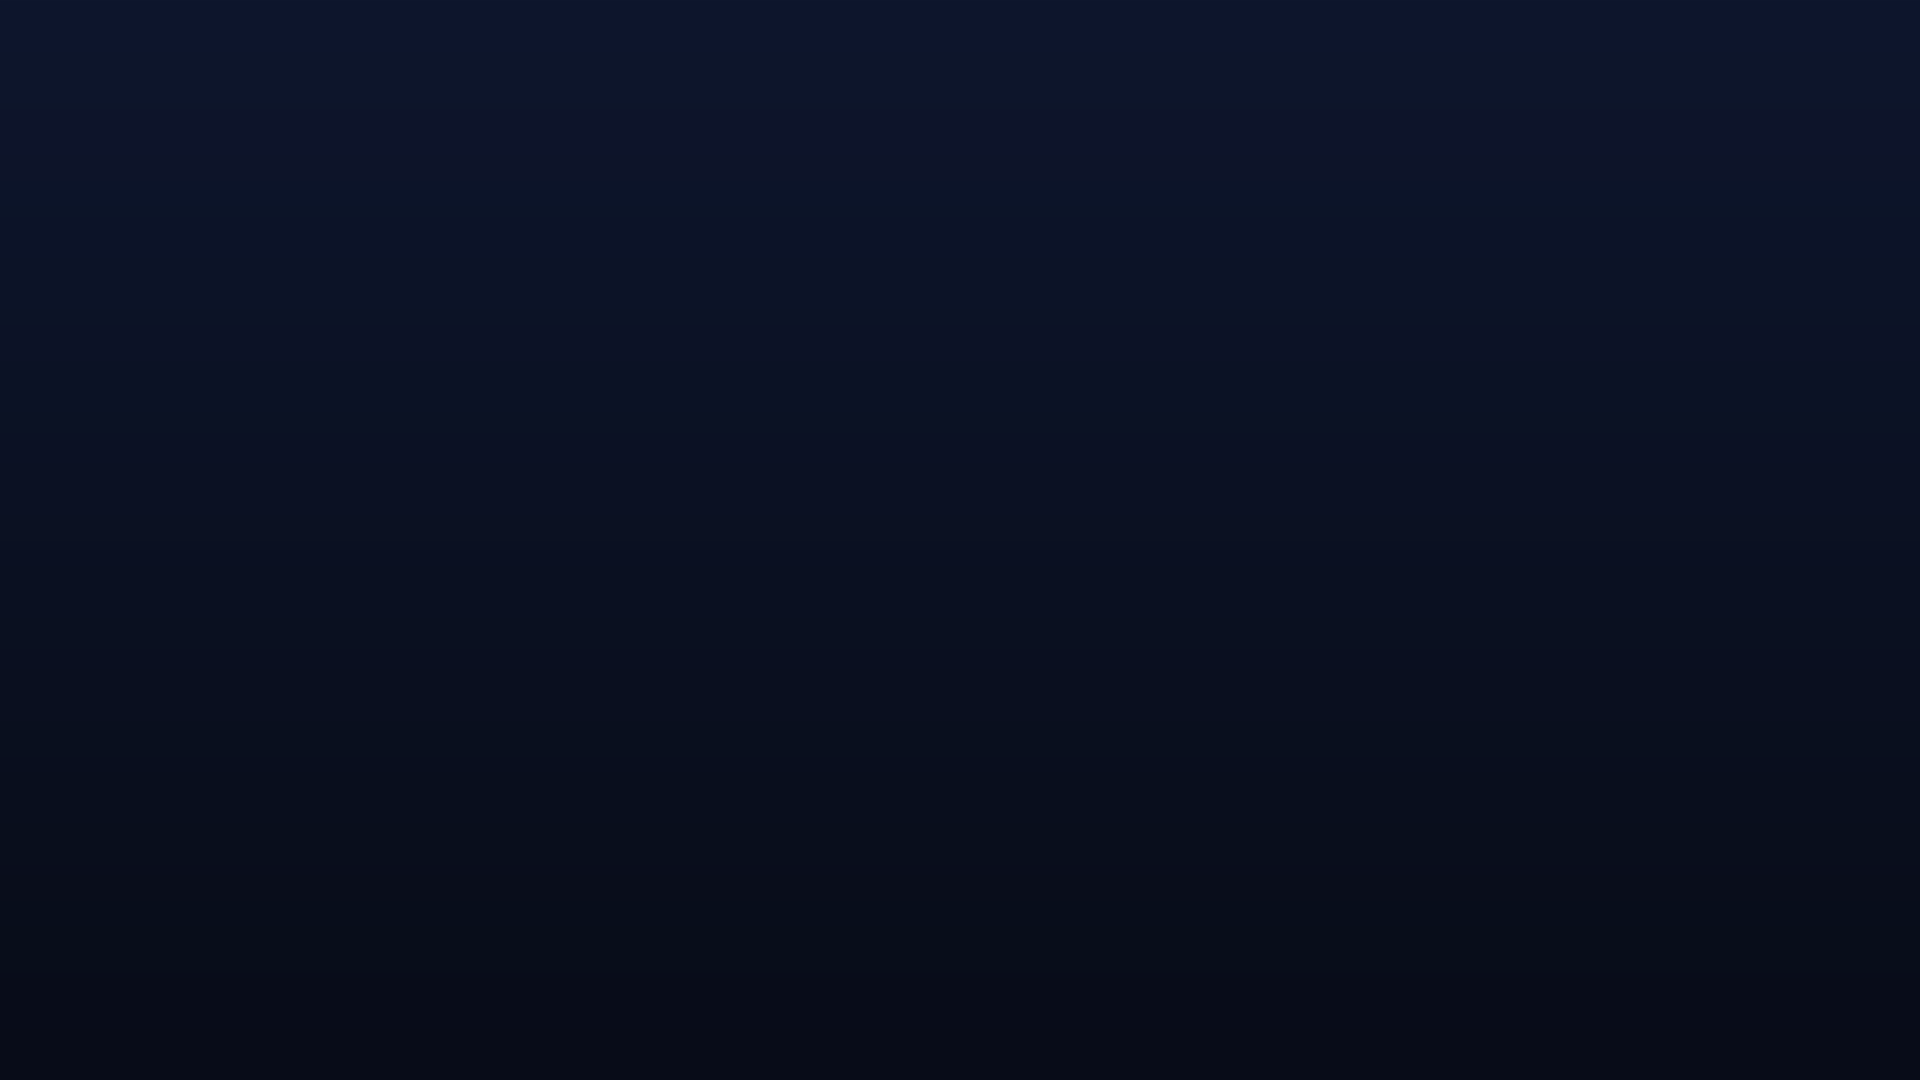
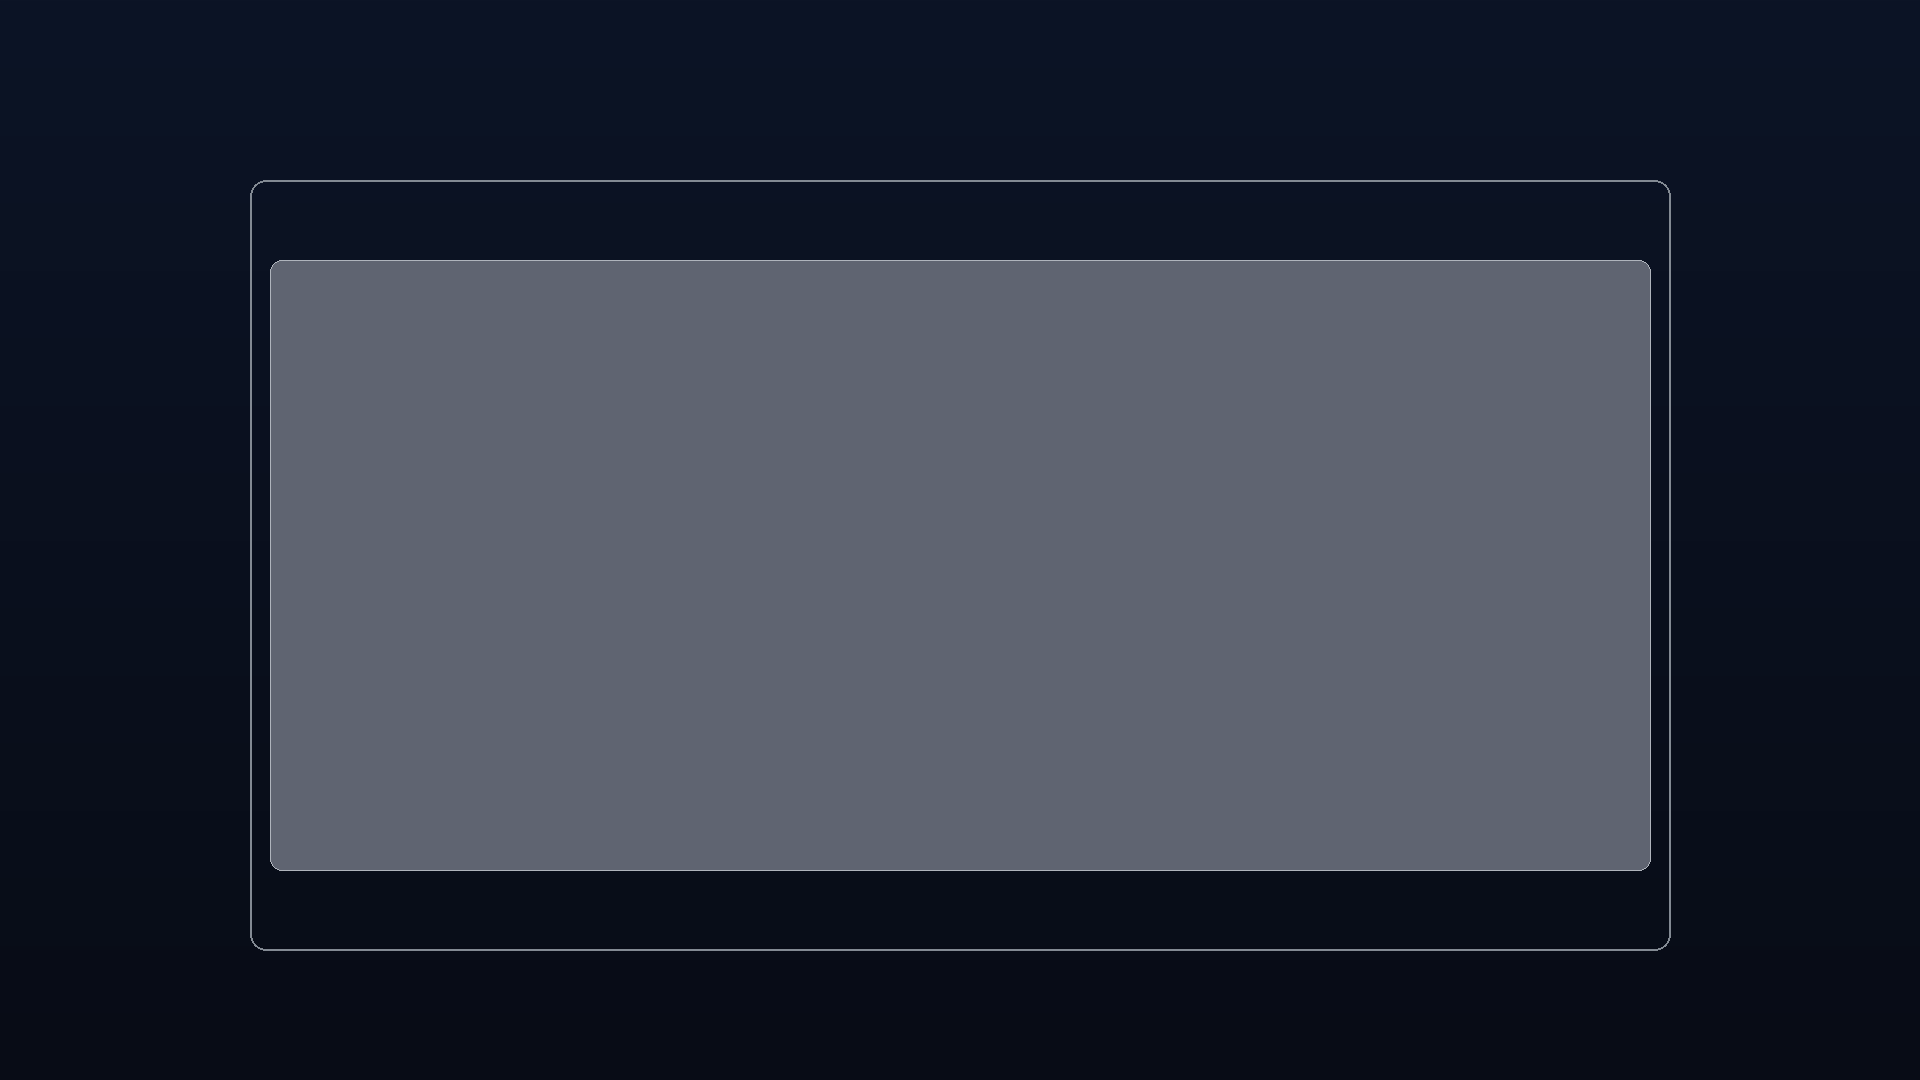
feat: rename application to ProxPXE and update assets

diff --git a/web/index.html b/web/index.html
@@ -3,7 +3,7 @@
 <head>
     <meta charset="UTF-8">
     <meta name="viewport" content="width=device-width, initial-scale=1.0">
-    <title>Proxmox PXE Ventoy Server</title>
+    <title>ProxPXE - Servidor PXE Proxmox</title>
     <script src="https://cdn.tailwindcss.com"></script>
     <link rel="stylesheet" href="https://cdnjs.cloudflare.com/ajax/libs/font-awesome/6.5.1/css/all.min.css">
     <script>
@@ -37,7 +37,7 @@
                 </div>
                 <div>
                     <h1 class="text-lg font-bold tracking-tight text-white flex items-center gap-2">
-                        Proxmox PXE <span class="text-xs px-2 py-0.5 rounded-full bg-emerald-500/10 text-emerald-400 border border-emerald-500/30">Bash Edition</span>
+                        ProxPXE <span class="text-xs px-2 py-0.5 rounded-full bg-emerald-500/10 text-emerald-400 border border-emerald-500/30">Ventoy Edition</span>
                     </h1>
                     <p class="text-xs text-slate-400">Boot de Rede PXE com Menu Gráfico Estilo Ventoy</p>
                 </div>

diff --git a/README.md b/README.md
@@ -1,6 +1,6 @@
-# Servidor PXE Ventoy Edition para Proxmox VE (100% Bash) 🚀
+# ProxPXE - Servidor PXE Estilo Ventoy para Proxmox VE (100% Bash) 🚀
 
-Sistema completo e ultraleve de **Boot de Rede PXE** desenvolvido **100% em Shell Script (Bash)**, projetado especificamente para rodar dentro de um **Container LXC no Proxmox VE**. Apresenta um **menu gráfico de inicialização estilo Ventoy** (Full HD 1920x1080), modo seguro **ProxyDHCP** (não interfere no seu roteador atual), monitoramento automático de pastas e um moderno **Painel de Controle Web**.
+O **ProxPXE** é um sistema completo e ultraleve de **Boot de Rede PXE** desenvolvido **100% em Shell Script (Bash)**, projetado especificamente para rodar dentro de um **Container LXC no Proxmox VE**. Apresenta um **menu gráfico de inicialização estilo Ventoy** (Full HD 1920x1080), modo seguro **ProxyDHCP** (não interfere no seu roteador atual), monitoramento automático de pastas e um moderno **Painel de Controle Web**.
 
 ---
 
@@ -9,28 +9,28 @@ Sistema completo e ultraleve de **Boot de Rede PXE** desenvolvido **100% em Shel
 Abra o **Shell do seu nó Proxmox VE (PVE)** e execute o comando abaixo:
 
 ```bash
-bash -c "$(curl -fsSL https://raw.githubusercontent.com/FelipeMzero/proxmox-pxe-ventoy/main/proxmox/create-ct.sh)"
+bash -c "$(curl -fsSL https://raw.githubusercontent.com/FelipeMzero/ProxPXE/main/proxmox/create-ct.sh)"
 ```
 
 O assistente interativo:
 1. Detecta automaticamente o próximo ID de Container disponível (ex: `110`).
 2. Permite escolher o storage (`local-lvm`, `local-zfs`, etc.), memória RAM e rede (`vmbr0`).
 3. **Compartilha suas ISOs do Proxmox:** Pergunta se você deseja montar `/var/lib/vz/template/iso` diretamente dentro do container, economizando espaço em disco!
-4. Baixa o template oficial Debian 12, configura o bootloader GRUB2 Netboot e inicia todos os serviços.
+4. Baixa o template oficial Debian 12, configura o bootloader GRUB2 Netboot e inicia todos os serviços do ProxPXE.
 5. Ao finalizar, exibe o IP para você acessar o painel no navegador!
 
 ---
 
-## 🌟 Principais Recursos
+## 🌟 Principais Recursos do ProxPXE
 
 - **Aplicação 100% em Shell Script (Bash):**
   - Zero dependências pesadas (sem Python, sem Node, sem Docker).
   - Consumo mínimo de memória RAM (< 150 MB para todo o container!).
-  - Scripts modulares: `pxe-scan.sh`, `pxe-theme.sh`, `pxe-watch.sh` e `pxe-cli.sh`.
+  - Scripts modulares: `pxe-scan.sh`, `pxe-theme.sh`, `pxe-watch.sh` e `proxpxe` CLI.
 - **Tela de Boot Estilo Ventoy:**
   - Baseada no motor gráfico `gfxmenu` do GRUB2 em alta resolução (1920x1080 Full HD).
   - Suporte completo a **UEFI (x86_64)** e **Legacy BIOS**.
-  - Logotipo centralizado, papel de parede moderno, barra de contagem regressiva e atalhos de teclado.
+  - Logotipo centralizado com a marca **ProxPXE**, papel de parede moderno, barra de contagem regressiva e atalhos de teclado.
 - **Detecção Inteligente de Imagens ISO:**
   - Basta colocar qualquer arquivo `.iso` em `/data/iso/`.
   - O daemon em segundo plano detecta automaticamente o novo arquivo e **atualiza o menu de boot na hora**!
@@ -39,7 +39,7 @@ O assistente interativo:
 - **Modo Seguro ProxyDHCP (Porta 4011):**
   - O roteador da sua casa ou empresa continua distribuindo os IPs normalmente.
   - O servidor PXE responde **somente** quando um computador solicita inicialização por rede.
-  - Zero risco de conflito de IP na sua rede!
+  - Zero risco de conflito de IP na sua rede local!
 - **Painel de Controle Web Integrado:**
   - Visualize o status da rede, espaço em disco e ISOs cadastradas.
   - **Simulador Interativo da Tela Ventoy** em tempo real no navegador.
@@ -54,7 +54,7 @@ Todas as pastas de customização ficam centralizadas em `/data`:
 | Pasta / Arquivo | O que colocar aqui | Formatos |
 | :--- | :--- | :--- |
 | `/data/iso/` | Suas imagens de instalação de sistemas operacionais. | `.iso`, `.img` |
-| `/data/theme/logo.png` | Sua imagem de Logotipo exibida no topo do menu de boot. | `.png` (260x68 aprox.) |
+| `/data/theme/logo.png` | Sua imagem de Logotipo exibida no topo do menu de boot. | `.png` (280x68 aprox.) |
 | `/data/theme/background.png` | Imagem de papel de parede de fundo do menu de boot. | `.png` (1920x1080) |
 | `/data/theme/fonts/` | Fontes tipográficas utilizadas nos textos do menu. | `.pf2` ou `.ttf` (convertidas auto) |
 | `/data/theme/icons/` | Ícones para os sistemas operacionais (Windows, Proxmox, Debian, etc.). | `.png` (32x32) |
@@ -64,7 +64,7 @@ Todas as pastas de customização ficam centralizadas em `/data`:
 
 ## 💻 Como dar Boot nas Máquinas Clientes
 
-Como o sistema opera em **ProxyDHCP**, você não precisa configurar nada no seu roteador:
+Como o ProxPXE opera em **ProxyDHCP**, você não precisa configurar nada no seu roteador:
 
 1. Conecte o computador de destino na mesma rede local (cabo Ethernet).
 2. Ligue a máquina e pressione a tecla de seleção de boot (Boot Menu):
@@ -74,29 +74,29 @@ Como o sistema opera em **ProxyDHCP**, você não precisa configurar nada no seu
    - **Asus / Gigabyte:** `F8` ou `F12`
    - **Placas-mãe diversas:** `F11` ou `F12`
 3. Escolha **Network Boot / IPv4 PXE**.
-4. O menu gráfico do Ventoy será carregado com a sua logo e a lista de ISOs para iniciar!
+4. O menu gráfico do ProxPXE (estilo Ventoy) será carregado com a sua logo e a lista de ISOs para iniciar!
 
 ---
 
-## 🛠 Ferramenta de Linha de Comando (`pxe-cli`)
+## 🛠 Ferramenta de Linha de Comando (`proxpxe` / `pxe-cli`)
 
-Dentro do container, você conta com um comando CLI exclusivo para gerenciar o PXE:
+Dentro do container, você conta com um comando CLI exclusivo para gerenciar o ProxPXE:
 
 ```bash
 # Ver status dos serviços e endereço IP
-pxe-cli status
+proxpxe status
 
 # Forçar reescaneamento das ISOs e regeneração dos menus
-pxe-cli scan
+proxpxe scan
 
 # Recompilar layout do tema e converter fontes
-pxe-cli theme
+proxpxe theme
 
 # Listar todas as ISOs disponíveis
-pxe-cli list
+proxpxe list
 
 # Alternar modo DHCP (proxy ou standalone)
-pxe-cli mode proxy
+proxpxe mode proxy
 ```
 
 ---
@@ -112,9 +112,9 @@ pxe-cli mode proxy
 │   ├── pxe-theme.sh         # Gerenciador do tema Ventoy e fontes .pf2
 │   ├── pxe-watch.sh         # Daemon que monitora a pasta /data/iso e atualiza auto
 │   ├── pxe-api.sh           # API em Bash CGI para o painel web
-│   └── pxe-cli.sh           # Interface de linha de comando
+│   └── pxe-cli.sh           # Interface de linha de comando (proxpxe)
 ├── web/
-│   └── index.html           # Painel Web com Simulador Ventoy Full HD
+│   └── index.html           # Painel Web com Simulador ProxPXE Full HD
 ├── configs/
 │   ├── dnsmasq.conf         # Configuração ProxyDHCP e TFTP
 │   ├── nginx.conf           # Servidor HTTP otimizado para streaming de ISOs
